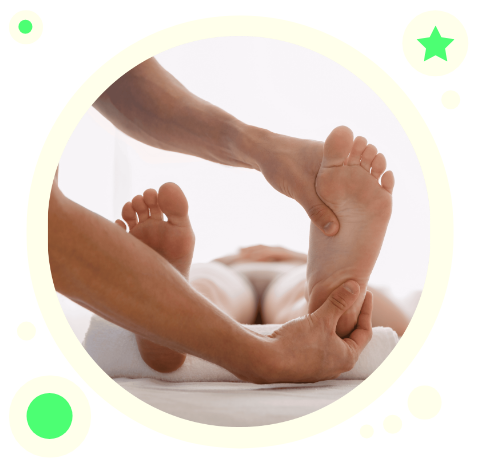
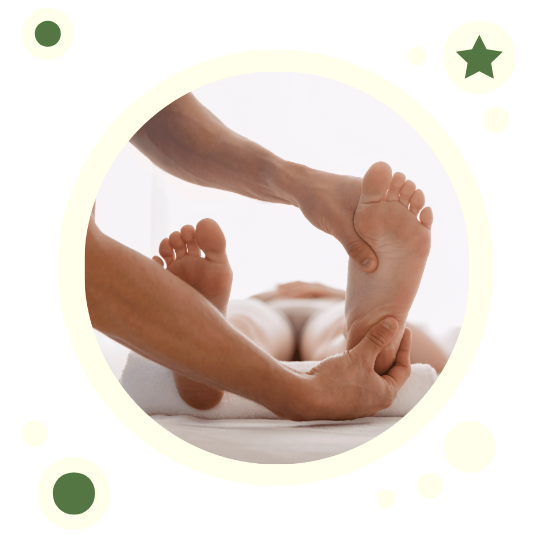
Finalização Menu | Alteração de paleta de cores

diff --git a/index.html b/index.html
@@ -7,15 +7,11 @@
     <link rel="stylesheet" href="https://cdnjs.cloudflare.com/ajax/libs/font-awesome/6.5.1/css/all.min.css"
         integrity="sha512-DTOQO9RWCH3ppGqcWaEA1BIZOC6xxalwEsw9c2QQeAIftl+Vegovlnee1c9QX4TctnWMn13TZye+giMm8e2LwA=="
         crossorigin="anonymous" referrerpolicy="no-referrer" />
-    <link rel="stylesheet" href="https://cdnjs.cloudflare.com/ajax/libs/slick-carousel/1.8.1/slick.min.css"/>
-    <link rel="stylesheet" href="https://cdnjs.cloudflare.com/ajax/libs/slick-carousel/1.8.1/slick-theme.min.css"/>
     <link rel="stylesheet" href="assets/styles/styles.css">
     <link rel="shortcut icon" href="assets/images/all_pé.png" type="image/x-icon">
     <script src="https://cdnjs.cloudflare.com/ajax/libs/jquery/3.7.1/jquery.min.js"
         integrity="sha512-v2CJ7UaYy4JwqLDIrZUI/4hqeoQieOmAZNXBeQyjo21dadnwR+8ZaIJVT8EE2iyI61OV8e6M8PP2/4hpQINQ/g=="
         crossorigin="anonymous" referrerpolicy="no-referrer"></script>
-    <script src="https://unpkg.com/scrollreveal"></script>
-    <script src="https://cdnjs.cloudflare.com/ajax/libs/slick-carousel/1.8.1/slick.min.js"></script>
     <title>All Pé - Landing Page</title>
 </head>
 
@@ -94,7 +90,7 @@
             </div>
 
             <div id="banner">
-                <img src="assets/images/banner_pe.png">
+                <img src="assets/images/freepik-allpe-20240721211940NaZs.png">
             </div>
         </section>
 
@@ -138,9 +134,9 @@
                     <div class="dish-phone">
                         <i class="fa-solid fa-phone-square"></i>
                     </div>
-
-                    <iframe src="https://www.google.com/maps/embed?pb=!1m18!1m12!1m3!1d3969.1179669635194!2d-35.21783262598026!3d-5.8389922575473925!2m3!1f0!2f0!3f0!3m2!1i1024!2i768!4f13.1!3m3!1m2!1s0x7b255e293057997%3A0xd480d7599782bea2!2sAll%20P%C3%A9%20Dr.%20Scholl&#39;s!5e0!3m2!1spt-BR!2sbr!4v1721482586484!5m2!1spt-BR!2sbr" width="600" height="450" style="border:0;" allowfullscreen="" loading="lazy" referrerpolicy="no-referrer-when-downgrade"></iframe>
                     
+                    <img src="assets/images/cidade_verde.jpg" alt="" class="dish-image">
+
                     <h3 class="dish-title">
                        Cidade Verde
                     </h3>

diff --git a/assets/styles/styles.css b/assets/styles/styles.css
@@ -7,11 +7,11 @@
 
 :root {
     --color-primary-1: #ffffeb; /* Branco */
-    --color-primary-2: #e8ffeb; /* Esbranquiçado com leve toque verde */
-    --color-primary-3: #b8ffc5; /* Verde muito claro */
-    --color-primary-4: #80ff99; /* Verde claro */
-    --color-primary-5: #4cff73; /* Verde claro mais forte */
-    --color-primary-6: #1aff4d; /* Verde claro fortão */
+--color-primary-2: #eaffd9; /* Verde muito claro */
+--color-primary-3: #d4ffb8; /* Verde claro */
+--color-primary-4: #a8ff80; /* Verde claro */
+--color-primary-5: #7cff4c; /* Verde claro forte */
+--color-primary-6: #547642; /* Verde */
 
     --color-neutral-0: #fff;
     --color-neutral-1: #1d1d1d;
@@ -49,7 +49,7 @@ a:hover {
     display: flex;
     align-items: center;
     justify-content: center;
-    background-color: var(--color-primary-5);
+    background-color: var(--color-primary-6);
     border-radius: 12px;
     padding: 10px 14px;
     font-weight: 600;
@@ -57,15 +57,17 @@ a:hover {
     cursor: pointer;
     transition: background-color .3s ease;
     transition: transform 0.5s ease;
+    color: var(--color-neutral-0);
 }
 
 .btn-default:hover {
     background-color: var(--color-primary-3);
+    color: var(--color-neutral-1);
     transform: translateY(-5px);
 }
 
 .social-media-buttons {
-    display: flex;
+    display: flex;  
     gap: 18px;
 }
 

diff --git a/assets/styles/home.css b/assets/styles/home.css
@@ -18,7 +18,7 @@
 }
 
 #cta .title span {
-    color: var(--color-primary-5);
+    color: var(--color-primary-6);
 }
 
 #cta .description {
@@ -32,7 +32,6 @@
 
 #cta_buttons a {
     text-decoration: none;
-    color: var(--color-neutral-1);
 }
 
 #phone_button {
@@ -51,7 +50,7 @@
 }
 
 .description span {
-    color: var(--color-primary-5);
+    color: var(--color-primary-6);
     font-weight: 680;
 }
 
@@ -59,7 +58,7 @@
     display: flex;
     align-items: start;
     justify-content: end;
-    width: 70%;
+    width: 100%;
     z-index: 2;
 }
 
@@ -69,11 +68,11 @@
 }
 
 .shape {
-    background-color: var(--color-primary-5);
+    background-color: var(--color-primary-6);
     width: 52%;
     height: 100%;
     position: absolute;
-    border-radius: 60%;
+    border-radius: 75% 50% 75% 60%;
     top: 0;
     right: 0;
     z-index: 1;
